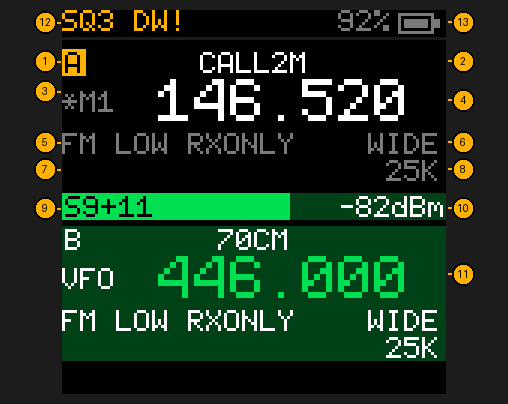
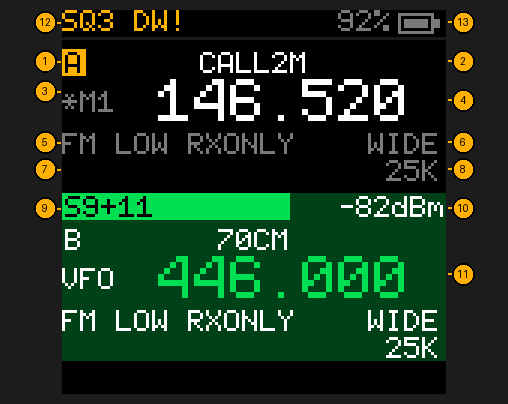
Meter: a new reading 3 times a second; a heard slot's tint runs to the meter
The receive meter redraws every 330 ms instead of 100 ms, so a fluttering
signal can be read. The squelch opening or closing still shows at once, and
draw_main leaves m_open 0xFF so a new channel's first settled reading shows
at once too (the main loop waits for rx_settled before drawing it). The mic
level and TX clock keep 100 ms. The heard-tone check gets its own 100 ms
timer (t_tone), as it rode on t_meter.

draw_main fills the rows between each slot and the meter (58-60 under A,
70-71 over B) in that slot's tint, or bg when it has none, so no dark line
splits a tinted slot from the tinted meter track. The squelch opening or
closing clears `fast`, so a DTMF line's fast redraw can't keep a stale tint.

A beep hands the chip back to the receiver (bk_spk), which restarts its
RSSI path like a retune: it now calls rx_unsettle(), so the meter and the
squelch skip the floor reading after a key click.

No asm twin changes (draw_meter, draw_slot, draw_status untouched).

Changed region(s): [[0.1181, 0.5347, 0.8858, 0.5644]]

diff --git a/fw/test_fw.py b/fw/test_fw.py
@@ -977,12 +977,12 @@ def rgb(r, g, b):                          # fw.h's RGB(): BGR565
     return (b & 0xF8) << 8 | (g & 0xFC) << 3 | r >> 3
 
 
-def tints(cpu):                            # the backgrounds of slot A's and B's blocks (x 127: no text reaches it)
-    import lcdshot
+def tints(cpu):                            # the backgrounds of slot A's and B's blocks (x 127: no text reaches it),
+    import lcdshot                         # each down or up to the meter (rows 61-69): no dark rows between
     fb = lcdshot.frame(cpu.lcd)
-    a, b = {fb[y][127] for y in range(13, 58)}, {fb[y][127] for y in range(72, 117)}
-    assert len(a) == len(b) == 1, ('a block not one colour', a, b)
-    assert fb[0][127] == 0 and fb[70][127] == 0, 'the status bar or the row under the meter changed colour'
+    a, b = {fb[y][127] for y in range(13, 61)}, {fb[y][127] for y in range(70, 117)}
+    assert len(a) == len(b) == 1, ('a block not one colour to the meter', a, b)
+    assert fb[0][127] == 0, 'the status bar changed colour'
     return a.pop(), b.pop()
 
 
@@ -1009,7 +1009,7 @@ def test_slot_tints(cpu):                  # a slot heard on a green tint, the o
     cpu.run(1_000_000)
     assert tints(cpu) == (0, 0), 'the tint stays after squelch closes'
     cpu.key = 'PTT'
-    cpu.run(300_000)
+    cpu.run(600_000)                       # the slot, then the rows under it
     assert tints(cpu) == (red, 0), 'TX on A: no red tint on A'
     cpu.run(700_000)                       # the mic bar's first draw
     assert lcdshot.frame(cpu.lcd)[69][127] == red, 'TX: the meter track not in the TX tint'
@@ -1030,7 +1030,7 @@ def test_slot_tints(cpu):                  # a slot heard on a green tint, the o
     cpu.bk.busy = None
     cpu.run(1_000_000)
     cpu.key = 'PTT'
-    cpu.run(300_000)
+    cpu.run(600_000)                       # the slot, then the rows under it
     assert tints(cpu) == (rgb(84, 0, 0), 0), 'NIGHT RED: TX tint'
     cpu.key = None
     cpu.run(2_000_000)
@@ -1975,6 +1975,48 @@ def test_meter_waits_for_retune(cpu):     # the chip reads its floor ~10 ms afte
     cpu.bk.dbm, cpu.bk.settle = None, 0
     cpu.bk.regs.pop(0x65, None)
     assert seen == {-98}, 'meter read an unsettled chip: %s' % sorted(seen)
+
+
+def test_meter_calm(cpu):                  # a fluttering signal: a new reading 3 times a second, a new channel's at once
+    import emu51
+    tick, ticks, shown = emu51.TICK, symbol(FW, '_ticks'), symbol(FW, '_m_dbm')
+    t_meter = symbol(FW, '_t_meter')
+    def get(a):
+        v = cpu.xram[a] | cpu.xram[a + 1] << 8
+        return v - 0x10000 if v & 0x8000 else v
+    emu51.TICK = 60000                     # ~12 MIPS: the main loop at the radio's pace, so ticks read true
+    try:
+        cpu.bk.busy = lambda f: True
+        cpu.bk.dbm = lambda f: -80 - cpu.icount // 30000 % 9   # a new reading every half tick
+        cpu.run(2_000_000)
+        last, at, gaps = get(shown), None, []
+        for _ in range(4000):              # ~330 ticks
+            cpu.run(5_000)
+            if get(shown) != last:
+                last, t = get(shown), get(ticks)
+                if at is not None: gaps.append((t - at) & 0xFFFF)
+                at = t
+        assert len(gaps) >= 3 and min(gaps) >= 66, 'meter redrawn sooner than every 330 ms: %s' % gaps
+        cpu.bk.dbm = lambda f: -60 if f == 44600000 else -100   # B (446.000) strong, A weak
+        cpu.bk.settle, cpu.bk.clock = 300_000, lambda: cpu.icount   # ~25 ms of floor after a retune or a key's beep
+        cpu.run(6_000_000)
+        assert get(shown) == -100, get(shown)
+        cpu.run(1_000_000, until=lambda: (get(ticks) - get(t_meter)) & 0xFFFF == 1)   # just drawn: the next is 330 ms off
+        t, seen = get(ticks), set()
+        cpu.key = '#'                      # A/B: B's reading must not wait out the 330 ms
+        while (get(ticks) - t) & 0xFFFF < 66 and get(shown) != -60:
+            if cpu.xram[cpu.key_held_at]: cpu.key = None
+            cpu.run(2_000)
+            seen.add(get(shown))
+        d = (get(ticks) - t) & 0xFFFF
+        assert get(shown) == -60 and d < 40, 'a new channel\'s reading waited %d ticks' % d
+        assert seen <= {-100, -60}, 'the meter showed an unsettled reading: %s' % sorted(seen)
+    finally:
+        emu51.TICK = tick
+        cpu.key = cpu.bk.busy = cpu.bk.dbm = None
+        cpu.bk.settle = 0
+    cpu.run(2_000_000)
+    press(cpu, '#')                        # back to A
 
 
 def test_battery_saver_wakes_on_ptt(cpu):   # PTT refused while asleep: the receiver wakes (it slept 5 s more, deaf)
@@ -3610,6 +3652,7 @@ INDEPENDENT = [
     ('Bluetooth clone protocol on UART0', test_bluetooth),
     ('save VFO to a memory channel', test_save_vfo_to_memory),
     ('the meter waits for the receiver to settle after a retune (no dips at every battery-saver wake)', test_meter_waits_for_retune),
+    ('the meter: a new reading 3 times a second, a new channel\'s at once', test_meter_calm),
     ('hold UP repeats', test_hold_repeats),
     ('UP/DOWN land on the step raster', test_step_raster),
     ('8.33 and 15 kHz steps land on their rasters', test_air_band_steps),

diff --git a/fw/main.c b/fw/main.c
@@ -126,7 +126,7 @@ __bit overwrite;                     // saving: the typed channel is in use, MEN
 static __xdata uint32_t skip[8];            // nuisance frequencies skipped until power-off (FT5DR skip search)
 static __xdata uint32_t scan_r[2];          // a VFO scan's range (low, high), from where it started
 static __xdata slot_t scan_from;            // the slot as the scan started: its channel, or its VFO frequency
-uint16_t t_tx, t_open, t_key, t_save, t_meter, t_scan, t_peek, t_wake, t_sleep, t_hit, heard;
+uint16_t t_tx, t_open, t_key, t_save, t_meter, t_tone, t_scan, t_peek, t_wake, t_sleep, t_hit, heard;
 int16_t dbm;
 __xdata char dtmf[17];               // DTMF digits heard, shown for 10 s after the last
 // Shown only as a run of DTMF_RUN or more, each within 1.5 s of the last: speech decodes as a stray
@@ -495,7 +495,7 @@ static uint16_t tone_heard(void) __reentrant
 // y 41  A: mode, power, shift ... bandwidth             y 73-116  B the same
 // y 50  A: tones ... step (or DTMF / HEARD while heard) y 120     (BOT_Y) messages and typing
 // 128 rows exactly: 3 between the bar's rule and A, A and the meter, B and the bottom line, 2 over B.
-// A slot heard or transmitting sits on its theme tint (y 13-57 or 72-116).
+// A slot heard or transmitting sits on its theme tint (y 13-60 or 70-116: up to the meter).
 #define METER_Y 62                          // the meter's text row; the bar starts a row above
 
 __xdata char shown[2][8];            // the digits on screen, so a scan step redraws only what changed
@@ -807,10 +807,12 @@ static void draw_main(void)
         return;
     }
     lcd_fillp(0, 9, W, 1, P_BAR);            // under the status bar
-    draw_slot(0);
-    draw_slot(1);
-    m_open = 0xFF;
-    draw_meter();
+    for (uint8_t i = 0; i < 2; i++) {       // each slot, then the rows between it and the meter in its tint
+        draw_slot(i);                       // (bg when none): a slot heard or transmitting runs to the meter
+        lcd_fill(0, i ? 70 : 58, W, 3 - i, theme_c(tinted[i]));
+    }
+    m_open = 0xFF;                          // just retuned: the main loop draws the new channel's first settled reading
+    if (rx_settled()) draw_meter();
     draw_status();
 }
 
@@ -1720,7 +1722,7 @@ static void squelch(void)
             if (cfg.bell && !scanning && !peek && !SQL_HELD && secs(&t_key) >= 10) { rang = 1; bk_chime(snd_bell); }
         }
         else heard = 0;
-        dirty = 1;
+        dirty = 1; fast = 0;                // the tint comes or goes: the whole screen (a fast redraw keeps a slot's tint)
     }
     if (open) { stamp(&t_open); if (lh_n && on_rx(&lh[0].f)) lh[0].at = up10; }   // last heard: still on
 }
@@ -2260,7 +2262,8 @@ void main(void)
             if (!asleep) {
                 dtmf_poll();
                 squelch();
-                if (open && !ch.rx_tone && !heard && since(&t_meter) >= 20) {
+                if (open && !ch.rx_tone && !heard && since(&t_tone) >= 20) {
+                    stamp(&t_tone);
                     // a real tone is steady: the same one three readings running (speech hits one by chance)
                     uint16_t h = tone_heard();
                     if (h && h == tone_try) { if (++tone_n >= 3) { heard = h; dirty = 1; } }
@@ -2278,7 +2281,10 @@ void main(void)
                 if (remote_req & REQ_END) { remote_req &= ~REQ_END; remote_end(); }   // the redraw REMOTE asked for is done
                 if (scanning) stamp(&t_scan);   // a scan's dwell starts once the new channel is on screen
             }
-            else if (since(&t_meter) >= 20) { stamp(&t_meter); if (!alert) draw_meter(); }
+            // The meter: a new reading 3 times a second, calm enough to read on a fluttering signal; at once
+            // when the squelch opens or closes, or with a new channel's first settled reading (draw_main
+            // leaves m_open 0xFF). The mic level and TX clock 10 times a second.
+            else if (!alert && rx_settled() && (since(&t_meter) >= (tx ? 20 : 66) || !tx && open != m_open)) { stamp(&t_meter); draw_meter(); }
         }
 
         if (remote_req & REQ_REDRAW) {

diff --git a/fw/radio.c b/fw/radio.c
@@ -240,10 +240,13 @@ static uint32_t trim(uint32_t f) __reentrant
 static uint16_t t_tuned;                    // when radio_tune last ran
 static __bit settled;
 
-// Right after a retune (a channel change, a dual-watch look, the battery saver waking it) the BK4819
+// Right after a retune (a channel change, a dual-watch look, the battery saver waking it, a beep handing
+// the chip back to the receiver) the BK4819
 // reads its floor (-126 dBm) and a closed squelch until the receiver settles: seen on the radio as the
 // meter dropping to nothing at every battery-saver wake. Settled, as bk_dbm_at decides it, is the
 // glitch count (REG_63) under 200; 50 ms at most, if it never drops.
+void rx_unsettle(void) { t_tuned = now(); settled = 0; }
+
 uint8_t rx_settled(void)
 {
     if (!settled && ((bk_read(0x63) & 0xFF) < 200 || (uint16_t)(now() - t_tuned) >= 10)) settled = 1;
@@ -265,7 +268,7 @@ void radio_tune(void)
     bk_rx_on();
     bk_dtmf_on(tail);
     bk_af(0);
-    t_tuned = now(); settled = 0;
+    rx_unsettle();
 }
 
 void radio_init(void)

diff --git a/fw/fw.h b/fw/fw.h
@@ -199,6 +199,7 @@ uint8_t chan_delete(uint8_t n);            // empty channel n (CHIRP's way)
 void chan_power(uint8_t n);                // step channel n's saved power, round
 void radio_tune(void);                     // apply ch to BK4819 and RX path
 uint8_t rx_settled(void);                  // the receiver has settled since radio_tune: RSSI and the squelch read true
+void rx_unsettle(void);                    // the receiver just started again: rx_settled waits for it
 uint8_t radio_tx(uint8_t on) __reentrant;              // 1 = transmitting
 void radio_off(void);
 void radio_init(void);                     // loads factory TX calibration

diff --git a/fw/bk4819.c b/fw/bk4819.c
@@ -384,7 +384,7 @@ static void bk_spk(uint8_t on) __reentrant
     AMP_ON = 0;
     bk_write(0x47, af_now);
     if (st == BK_SLEEP) bk_sleep();
-    else bk_table(rx_on, sizeof rx_on);
+    else { bk_table(rx_on, sizeof rx_on); rx_unsettle(); }   // RX restarts: its RSSI reads the floor a moment
 }
 
 // A sound is a list of ramps (note_t, fw.h): each voice's level and pitch move in straight lines,

diff --git a/docs/manual/Home-Screen.md b/docs/manual/Home-Screen.md
@@ -47,9 +47,11 @@ Both slots are laid out the same way, under a status bar. The meter sits between
 9. **Signal meter**: one bar across the screen, filling to the right as the signal gets stronger.
     Dim amber while it's just noise (in the theme's own colour: dim red in NIGHT RED); green once the
     squelch opens on a real signal, however strong, and then the rest of the bar takes the same dark
-    green as the slot you're hearing. With the squelch at S1-S9 it stays dim until the
-    signal reaches that S-unit, and a thin white line marks that level, so you can see how far over it
-    a station is.
+    green as the slot you're hearing, which runs right up to the bar with no dark line between. With
+    the squelch at S1-S9 it stays dim until the signal reaches that S-unit, and a thin white line marks
+    that level, so you can see how far over it a station is. The reading changes three times a second,
+    slow enough to read on a signal that flutters; a new channel's reading shows at once, and so does the
+    squelch opening or closing.
 10. **Signal strength**, twice, inside the bar: in S-units at the left, `S0` to `S9`, then `S9+10` and
     so on (dB over S9), and in dBm at the right (`-102dBm`: the closer to zero, the stronger; -120 is a
     whisper, -60 is very strong).

diff --git a/CHANGELOG.md b/CHANGELOG.md
@@ -12,6 +12,11 @@ starts with its part of this list.
   until you type a callsign.
 - The menu items from SCAN GROUP on each moved down one place: SCAN GROUP is now 21, PC LINK 45,
   REMOTE 46 and VERSION 51.
+- The signal meter changes three times a second instead of ten, so a fluttering signal is easier to
+  read. A new channel's reading still shows at once, and so does the squelch opening or closing.
+- The green (or red, while you talk) behind the slot you're hearing now runs right up to the signal
+  meter, with no dark line between them.
+- The meter no longer drops to nothing for a moment after a key beep.
 
 ## 0.65.0
 
